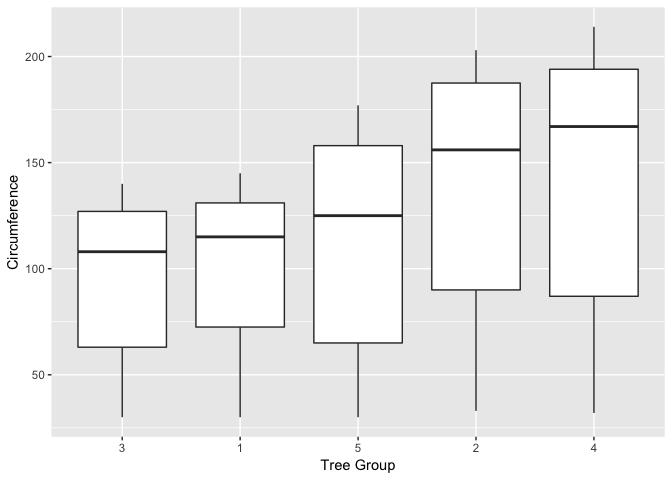
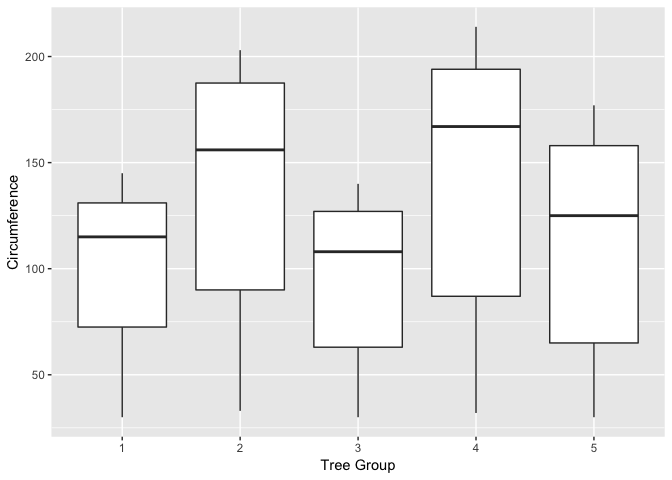
third question

diff --git a/thirdQuestion/third.md b/thirdQuestion/third.md
@@ -79,8 +79,25 @@ Display the trunk circumferences on a comparative boxplot against tree. Be sure 
 
 
 ```r
+Orange$Tree <- factor(Orange$Tree, levels = as.integer(Orange$Tree[order(Orange$Tree)]))
+```
+
+```
+## Warning in `levels<-`(`*tmp*`, value = if (nl == nL) as.character(labels)
+## else paste0(labels, : duplicated levels in factors are deprecated
+```
+
+```r
 box <- ggplot(Orange, aes( Orange$Tree, Orange$circumference)) + geom_boxplot() + labs(y = "Circumference") + labs(x = "Tree Group")
 print(box)
+```
+
+```
+## Warning in `levels<-`(`*tmp*`, value = if (nl == nL) as.character(labels)
+## else paste0(labels, : duplicated levels in factors are deprecated
+
+## Warning in `levels<-`(`*tmp*`, value = if (nl == nL) as.character(labels)
+## else paste0(labels, : duplicated levels in factors are deprecated
 ```
 
 ![](third_files/figure-html/unnamed-chunk-4-1.png)<!-- -->
